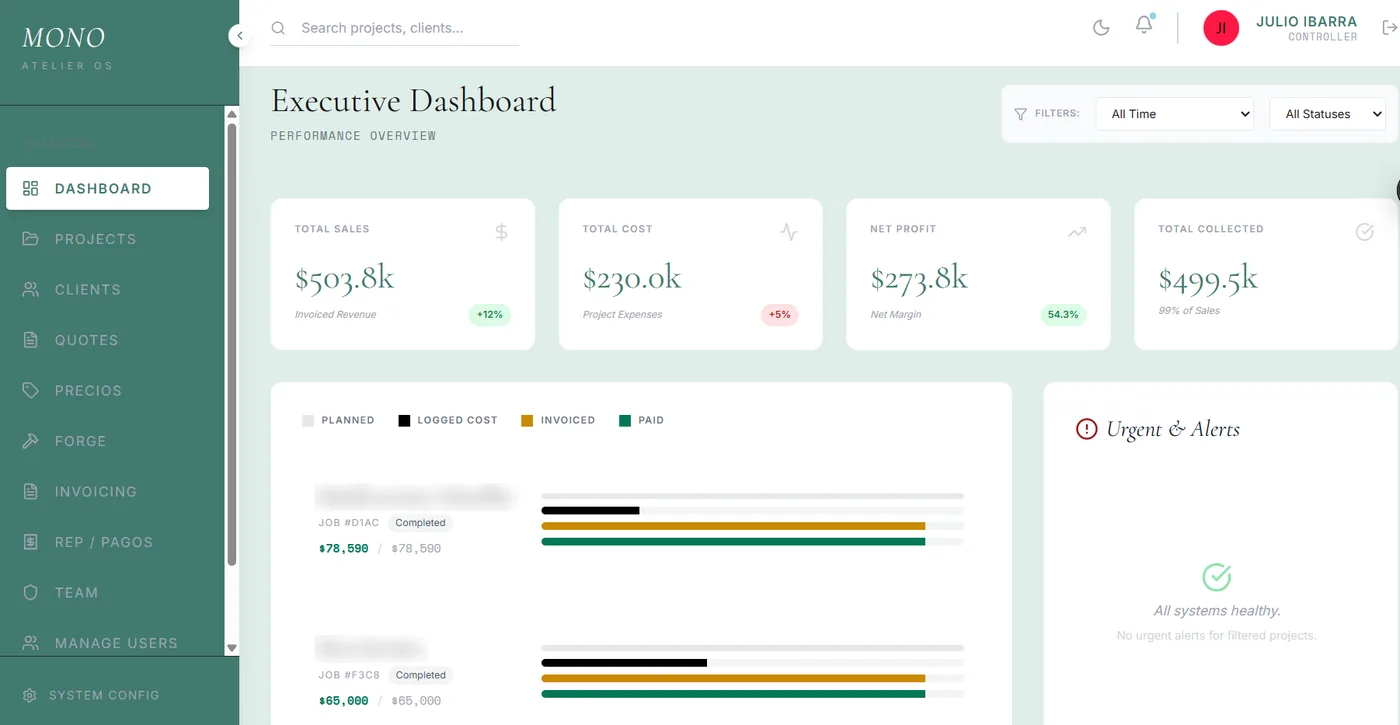
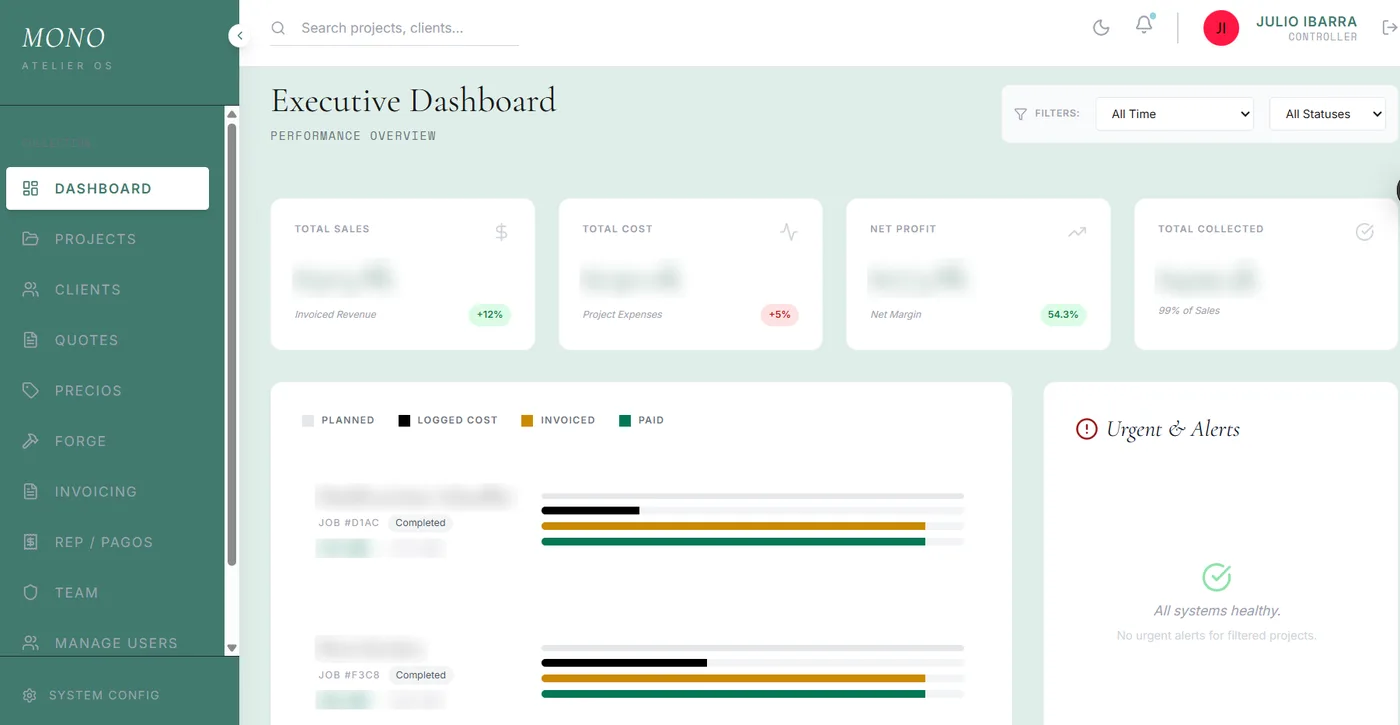
Capturas de Vértice y Lana; montos de Mono difuminados
- Portafolio: Vértice usa la captura del inicio para la dirección y
  Lana tiene su miniatura. Saldo, montos, nombres y movimientos de
  Lana difuminados; montos y nombre de usuario de Vértice también.
- Mono Atelier: montos del tablero difuminados.

Claude-Session: https://claude.ai/code/session_01AzK6i9VKVcxqiPZYn1rFkH

diff --git a/index.html b/index.html
@@ -696,6 +696,7 @@
           <p class="pdesc" data-i18n="dgDesc">Arreglos y prendas a la medida: pedidos, avance de cada proyecto y pagos en línea.</p>
         </div>
         <div class="pitem">
+          <span class="pthumb"><img src="/assets/casos/lana-app.webp" width="1400" height="788" alt="App de Lana con saldos y movimientos difuminados" loading="lazy" decoding="async"></span>
           <div class="prow"><span class="pname">Lana</span><span class="pstatus live"><i></i><span data-i18n="stDaily">En uso diario</span></span></div>
           <span class="psector" data-i18n="lSec">Finanzas personales</span>
           <p class="pdesc" data-i18n="lDesc">Gastos por categoría, flujo de efectivo, gastos fijos y un asistente de IA que responde qué puedes pagar.</p>
@@ -704,7 +705,7 @@
       <p class="plabel" data-i18n="pDev">En desarrollo</p>
       <div class="pgrid">
         <a class="pitem" href="/vertice">
-          <span class="pthumb"><img src="/assets/casos/vertice-modulos.webp" width="1400" height="499" alt="Módulos de Vértice" loading="lazy" decoding="async"></span>
+          <span class="pthumb"><img src="/assets/casos/vertice-panel.webp" width="1400" height="745" alt="Inicio de Vértice para la dirección escolar, con datos de demostración" loading="lazy" decoding="async"></span>
           <div class="prow"><span class="pname">Vértice</span></div>
           <span class="psector" data-i18n="vSec">Educación</span>
           <p class="pdesc" data-i18n="vDesc">Gestión escolar: matrícula, calificaciones, pagos y comunicación con padres.</p>
